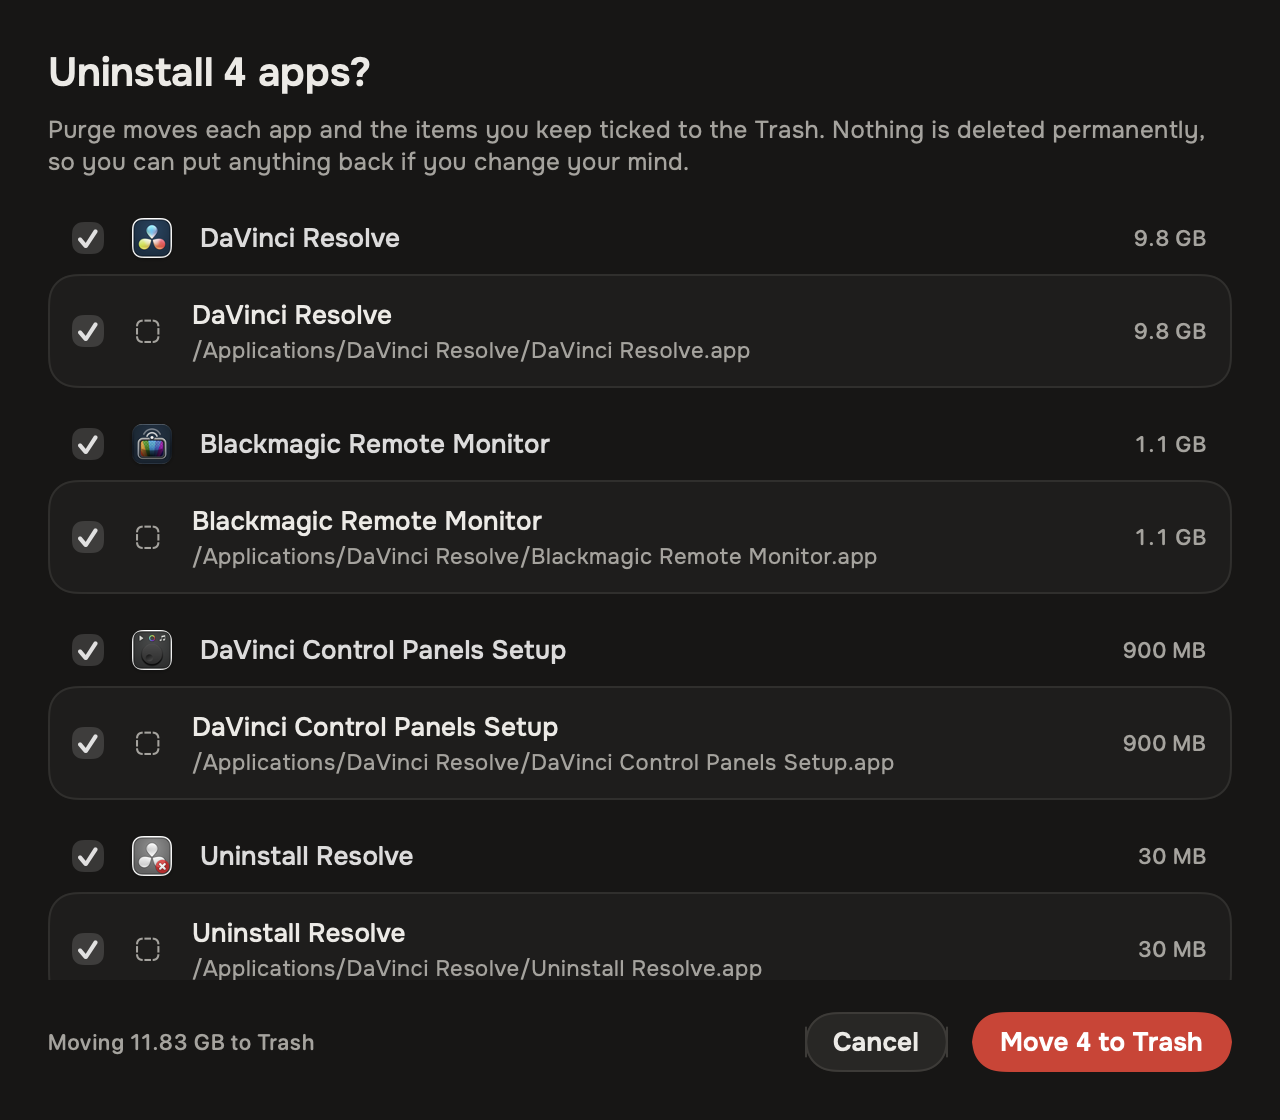
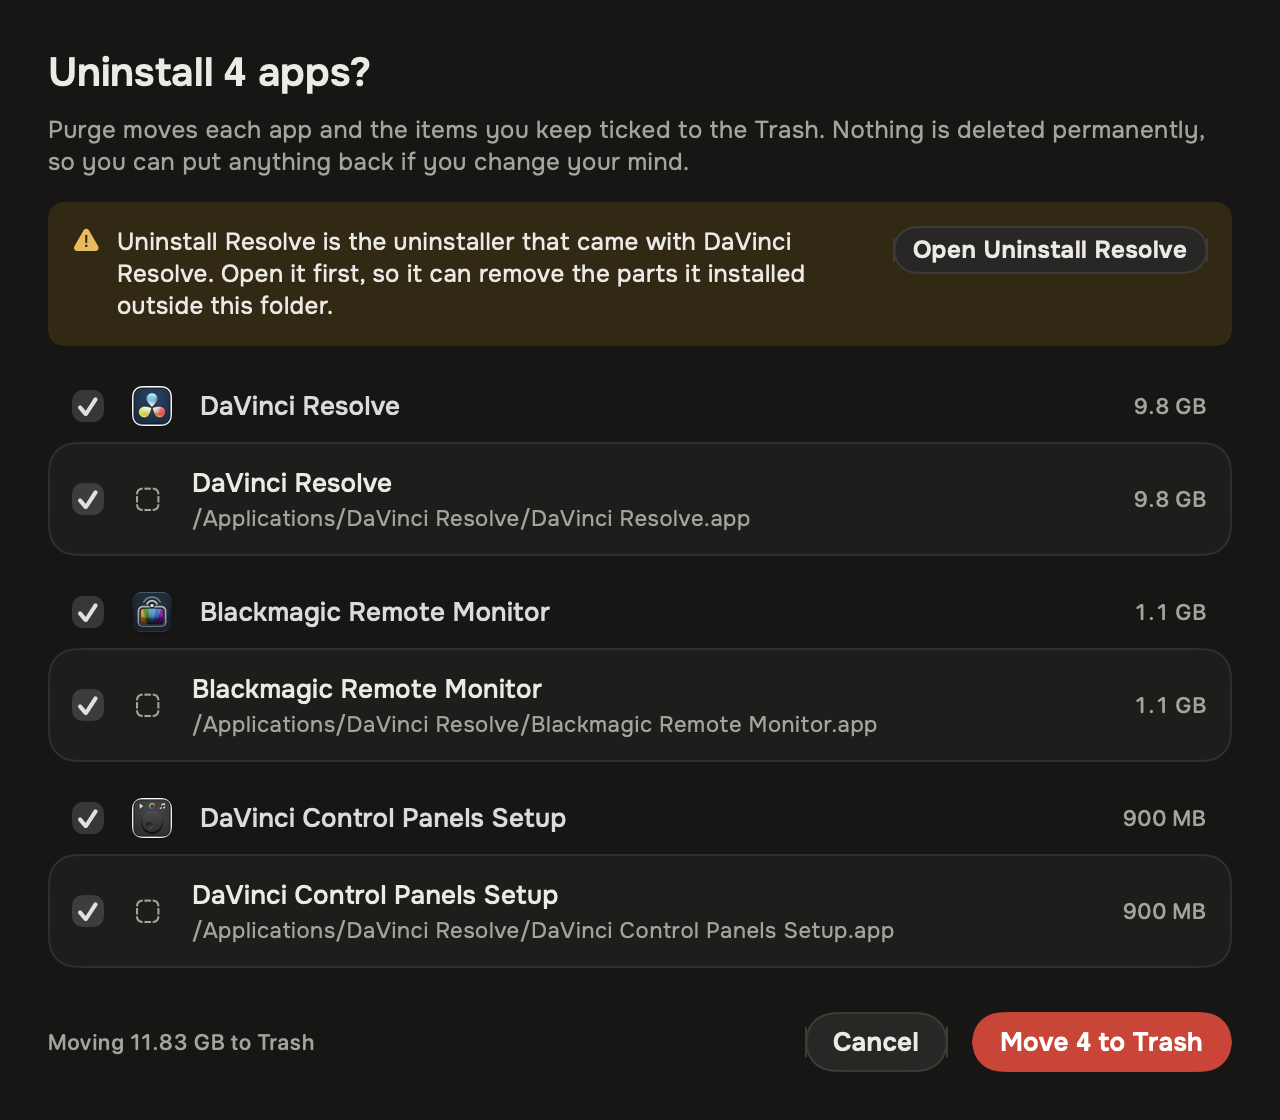
fix: warn when a removal takes a group's uninstaller, and follow the sheet's ticks (#155)
The review sheet now warns whenever the vendor's uninstaller is in the
removal, alone or with every other app, since only it removes what the
vendor installed outside the folder. A partial pick counts only the
apps beside the uninstaller. The warning is worked out from the bundles
ticked in the sheet, so unticking one updates it.

The store tests no longer build a plan through the real leftover scan.
They check the store's group helper and the open action directly.

diff --git a/PurgeTests/AppSuiteGroupingTests.swift b/PurgeTests/AppSuiteGroupingTests.swift
@@ -249,25 +249,74 @@ struct AppSuiteGroupingTests {
 
     // MARK: Partial suites
 
-    @Test
-    func partialSuiteOnlyForSomeMembersOfAGroupWithAnUninstaller() {
+    private var suiteSetup: (apps: [InstalledApp], groups: [AppSuiteGroup]) {
         let apps = resolve + raw
-        let groups = AppSuiteGrouping.groups(apps: apps, roots: roots, teamID: teams(sameTeam(apps)))
+        return (apps, AppSuiteGrouping.groups(apps: apps, roots: roots, teamID: teams(sameTeam(apps))))
+    }
 
-        let one = AppSuiteGrouping.partialSuites(pickedIDs: [resolve[0].id], groups: groups, apps: apps)
+    @Test
+    func somePartsWarnAndCountOnlyTheAppsBesideTheUninstaller() {
+        let (apps, groups) = suiteSetup
+        let one = AppSuiteGrouping.partialSuites(removingIDs: [resolve[0].id], groups: groups, apps: apps)
         #expect(one == [PartialSuite(
+            kind: .someParts,
             groupName: "DaVinci Resolve",
             uninstallerName: "Uninstall Resolve",
             uninstallerURL: resolve[3].bundleURL,
             pickedCount: 1,
-            totalCount: 4
+            totalCount: 3
         )])
-
-        let all = Set(resolve.map(\.id))
-        #expect(AppSuiteGrouping.partialSuites(pickedIDs: all, groups: groups, apps: apps).isEmpty)
-        #expect(AppSuiteGrouping.partialSuites(pickedIDs: [], groups: groups, apps: apps).isEmpty)
+        // Every app but the uninstaller: the uninstaller can still run, so no note.
+        let parts = Set(resolve.prefix(3).map(\.id))
+        #expect(AppSuiteGrouping.partialSuites(removingIDs: parts, groups: groups, apps: apps).isEmpty)
+        #expect(AppSuiteGrouping.partialSuites(removingIDs: [], groups: groups, apps: apps).isEmpty)
         // Blackmagic RAW has no uninstaller, so a partial pick there gets no note.
-        #expect(AppSuiteGrouping.partialSuites(pickedIDs: [raw[0].id], groups: groups, apps: apps).isEmpty)
+        #expect(AppSuiteGrouping.partialSuites(removingIDs: [raw[0].id], groups: groups, apps: apps).isEmpty)
+    }
+
+    /// Review of #337: removing the uninstaller is the case that leaves the
+    /// vendor's other files behind, alone or with every other app.
+    @Test
+    func removingTheUninstallerAlwaysWarns() {
+        let (apps, groups) = suiteSetup
+        let alone = AppSuiteGrouping.partialSuites(removingIDs: [resolve[3].id], groups: groups, apps: apps)
+        #expect(alone.map(\.kind) == [.uninstallerRemoved])
+        #expect(alone.first?.pickedCount == 0)
+
+        let all = AppSuiteGrouping.partialSuites(removingIDs: Set(resolve.map(\.id)), groups: groups, apps: apps)
+        #expect(all.map(\.kind) == [.uninstallerRemoved])
+        #expect(all.first?.pickedCount == 3)
+    }
+
+    private func appPlan(_ app: InstalledApp, bundleTicked: Bool = true) -> UninstallAppPlan {
+        UninstallAppPlan(app: app, items: [UninstallItem(
+            path: app.bundleURL, sizeBytes: 1, category: .bundle,
+            safetyInfo: SafetyInfo(level: .medium, headline: app.name, explanation: "", recoverySteps: "", reinstallCommand: nil),
+            matchReason: .appBundle, isSelected: bundleTicked
+        )])
+    }
+
+    /// Review of #337: the sheet lets the user untick a bundle, which keeps
+    /// that app, so the warning follows the ticks rather than the first pick.
+    @Test
+    func planWarningFollowsTheTickedBundles() {
+        let (apps, groups) = suiteSetup
+        var plan = UninstallPlan(
+            id: "p",
+            apps: resolve.prefix(3).map { appPlan($0) },
+            suiteGroups: groups,
+            suiteApps: apps
+        )
+        #expect(plan.partialSuites.isEmpty)
+
+        plan.apps[1].items[0].isSelected = false
+        #expect(plan.partialSuites.map(\.kind) == [.someParts])
+        #expect(plan.partialSuites.first?.pickedCount == 2)
+
+        var one = UninstallPlan(id: "q", apps: [appPlan(resolve[0])], suiteGroups: groups, suiteApps: apps)
+        #expect(one.partialSuites.count == 1)
+        one.apps[0].items[0].isSelected = false
+        #expect(one.partialSuites.isEmpty)
     }
 }
 

diff --git a/PurgeTests/AppSuiteStoreTests.swift b/PurgeTests/AppSuiteStoreTests.swift
@@ -118,42 +118,38 @@ struct AppSuiteStoreTests {
         #expect(store.selectedAppIDs == [fixture.loner.id])
     }
 
+    /// The plan gets the groups its apps belong to and their members. Checked
+    /// on the store's helper, not through a plan build, which scans the real
+    /// home folder for leftovers.
     @Test
-    func planNotesASuiteTakenInPartAndOpensItsUninstaller() async throws {
+    func suiteContextHoldsOnlyTheGroupsOfThePickedApps() async throws {
+        let scans = FakeScans()
+        let fixture = try makeFixture()
+        defer { scans.cleanUp(); try? fm.removeItem(at: fixture.root) }
+        let store = makeStore(scans, fixture)
+        #expect(await eventually { store.appSuiteGroups.count == 1 })
+
+        let picked = store.suiteContext(for: [fixture.apps[0].id])
+        #expect(picked.groups.map(\.id) == store.appSuiteGroups.map(\.id))
+        #expect(Set(picked.apps.map(\.id)) == Set(fixture.suiteIDs))
+
+        let lone = store.suiteContext(for: [fixture.loner.id])
+        #expect(lone.groups.isEmpty)
+        #expect(lone.apps.isEmpty)
+    }
+
+    @Test
+    func openingTheUninstallerClosesThePlanAndLaunchesIt() throws {
         let scans = FakeScans()
         let fixture = try makeFixture()
         defer { scans.cleanUp(); try? fm.removeItem(at: fixture.root) }
         let store = makeStore(scans, fixture)
         var launched: [URL] = []
         store.appLauncher = { launched.append($0) }
-        #expect(await eventually { store.appSuiteGroups.count == 1 })
+        store.uninstallPlan = UninstallPlan(id: "p", apps: [UninstallAppPlan(app: fixture.apps[0], items: [])])
 
-        store.toggleAppSelected(id: fixture.apps[0].id)
-        await store.requestUninstallSelectedApps()
-        let plan = try #require(store.uninstallPlan)
-        let suite = try #require(plan.partialSuites.first)
-        #expect(plan.partialSuites.count == 1)
-        #expect(suite.pickedCount == 1)
-        #expect(suite.totalCount == 3)
-        #expect(suite.uninstallerURL == fixture.uninstaller.bundleURL)
-
-        store.openSuiteUninstaller(at: suite.uninstallerURL)
+        store.openSuiteUninstaller(at: fixture.uninstaller.bundleURL)
         #expect(store.uninstallPlan == nil)
         #expect(launched == [fixture.uninstaller.bundleURL])
-    }
-
-    @Test
-    func planForAWholeSuiteHasNoNote() async throws {
-        let scans = FakeScans()
-        let fixture = try makeFixture()
-        defer { scans.cleanUp(); try? fm.removeItem(at: fixture.root) }
-        let store = makeStore(scans, fixture)
-        #expect(await eventually { store.appSuiteGroups.count == 1 })
-
-        store.setAppsSelected(fixture.suiteIDs, true)
-        await store.requestUninstallSelectedApps()
-        let plan = try #require(store.uninstallPlan)
-        #expect(plan.apps.count == 3)
-        #expect(plan.partialSuites.isEmpty)
     }
 }

diff --git a/purge/Models/AppSuiteGrouping.swift b/purge/Models/AppSuiteGrouping.swift
@@ -148,35 +148,56 @@ nonisolated enum AppSuiteGrouping {
     }
 }
 
-/// A group with its own uninstaller that a removal takes only part of (#155).
-/// The review sheet warns, since removing some parts by hand can stop the
-/// vendor's uninstaller from removing the rest.
+/// A removal the review sheet warns about (#155): it takes the vendor's own
+/// uninstaller, or only some of a group's other apps while that uninstaller
+/// stays. Removing parts by hand can stop the uninstaller from removing the
+/// rest, and only it removes what the vendor installed outside the folder.
 nonisolated struct PartialSuite: Hashable, Sendable {
+    enum Kind: Hashable, Sendable {
+        /// The removal takes the uninstaller itself.
+        case uninstallerRemoved
+        /// The removal takes some, not all, of the other apps.
+        case someParts
+    }
+
+    let kind: Kind
     let groupName: String
     let uninstallerName: String
     let uninstallerURL: URL
+    /// Apps other than the uninstaller that the removal takes.
     let pickedCount: Int
+    /// Apps in the group other than the uninstaller.
     let totalCount: Int
 }
 
 extension AppSuiteGrouping {
-    /// The groups with an uninstaller where some, but not all, members are picked.
+    /// The groups with an uninstaller that a removal of `removingIDs` should
+    /// warn about. The uninstaller never counts as one of the parts.
     static func partialSuites(
-        pickedIDs: Set<String>,
+        removingIDs: Set<String>,
         groups: [AppSuiteGroup],
         apps: [InstalledApp]
     ) -> [PartialSuite] {
         let byID = Dictionary(apps.map { ($0.id, $0) }, uniquingKeysWith: { first, _ in first })
         return groups.compactMap { group in
             guard let uninstallerID = group.uninstallerID, let uninstaller = byID[uninstallerID] else { return nil }
-            let picked = group.appIDs.filter(pickedIDs.contains).count
-            guard picked > 0, picked < group.appIDs.count else { return nil }
+            let parts = group.appIDs.filter { $0 != uninstallerID }
+            let picked = parts.filter(removingIDs.contains).count
+            let kind: PartialSuite.Kind
+            if removingIDs.contains(uninstallerID) {
+                kind = .uninstallerRemoved
+            } else if picked > 0, picked < parts.count {
+                kind = .someParts
+            } else {
+                return nil
+            }
             return PartialSuite(
+                kind: kind,
                 groupName: group.name,
                 uninstallerName: uninstaller.name,
                 uninstallerURL: uninstaller.bundleURL,
                 pickedCount: picked,
-                totalCount: group.appIDs.count
+                totalCount: parts.count
             )
         }
     }

diff --git a/purge/Models/UninstallItem.swift b/purge/Models/UninstallItem.swift
@@ -345,9 +345,18 @@ nonisolated struct UninstallAppPlan: Identifiable, Hashable {
 nonisolated struct UninstallPlan: Identifiable, Hashable {
     let id: String
     var apps: [UninstallAppPlan]
-    /// Groups with their own uninstaller that this removal takes only part of
-    /// (#155), so the sheet can point to that uninstaller.
-    var partialSuites: [PartialSuite] = []
+    /// The vendor groups the plan's apps belong to (#155), and every app in
+    /// them, so the sheet can warn as the user ticks and unticks bundles.
+    var suiteGroups: [AppSuiteGroup] = []
+    var suiteApps: [InstalledApp] = []
+
+    /// What the sheet warns about, from the bundles ticked right now: an
+    /// unticked bundle stays on disk, so its app is not being removed.
+    var partialSuites: [PartialSuite] {
+        guard !suiteGroups.isEmpty else { return [] }
+        let removing = Set(apps.filter { $0.bundleItem?.isSelected == true }.map(\.app.id))
+        return AppSuiteGrouping.partialSuites(removingIDs: removing, groups: suiteGroups, apps: suiteApps)
+    }
 
     var totalSelectedItems: Int { uniqueSelectedItems.count }
     var totalSelectedBytes: Int64 { uniqueSelectedItems.reduce(Int64(0)) { $0 + $1.sizeBytes } }

diff --git a/purge/Views/UninstallAppGroupViews.swift b/purge/Views/UninstallAppGroupViews.swift
@@ -344,6 +344,11 @@ struct PartialSuiteWarning: View {
     }
 
     static func text(for suite: PartialSuite) -> String {
-        String(localized: "You picked \(suite.pickedCount) of \(suite.totalCount) apps in \(suite.groupName). Removing only some of them can stop its own uninstaller from removing the rest.")
+        switch suite.kind {
+        case .uninstallerRemoved:
+            return String(localized: "\(suite.uninstallerName) is the uninstaller that came with \(suite.groupName). Open it first, so it can remove the parts it installed outside this folder.")
+        case .someParts:
+            return String(localized: "You picked \(suite.pickedCount) of \(suite.totalCount) apps in \(suite.groupName). Removing only some of them can stop its own uninstaller from removing the rest.")
+        }
     }
 }

diff --git a/purge/Services/PurgeStore.swift b/purge/Services/PurgeStore.swift
@@ -3363,15 +3363,8 @@ final class PurgeStore: ObservableObject {
         Self.markSharedWithSurvivors(in: &appPlans, survivors: claimants, appGroupClaims: appGroupClaims)
 
         let id = appPlans.map(\.app.id).sorted().joined(separator: "|")
-        uninstallPlan = UninstallPlan(
-            id: id,
-            apps: appPlans,
-            partialSuites: AppSuiteGrouping.partialSuites(
-                pickedIDs: removingIDs,
-                groups: appSuiteGroups,
-                apps: installedApps
-            )
-        )
+        let suites = suiteContext(for: removingIDs)
+        uninstallPlan = UninstallPlan(id: id, apps: appPlans, suiteGroups: suites.groups, suiteApps: suites.apps)
     }
 
     /// Unticks and labels any leftover that an app the user is keeping also claims,

diff --git a/purge/Services/PurgeStore+AppSuites.swift b/purge/Services/PurgeStore+AppSuites.swift
@@ -48,6 +48,14 @@ extension PurgeStore {
         AppSuiteGrouping.entries(apps: apps, groups: appSuiteGroups)
     }
 
+    /// The groups that hold any of `appIDs`, and every listed app in them, for
+    /// the review sheet's warning.
+    func suiteContext(for appIDs: Set<String>) -> (groups: [AppSuiteGroup], apps: [InstalledApp]) {
+        let groups = appSuiteGroups.filter { !appIDs.isDisjoint(with: $0.appIDs) }
+        let members = Set(groups.flatMap(\.appIDs))
+        return (groups, installedApps.filter { members.contains($0.id) })
+    }
+
     /// Opens a suite's own uninstaller, closing the review sheet first when it
     /// was opened from there.
     func openSuiteUninstaller(at url: URL) {
